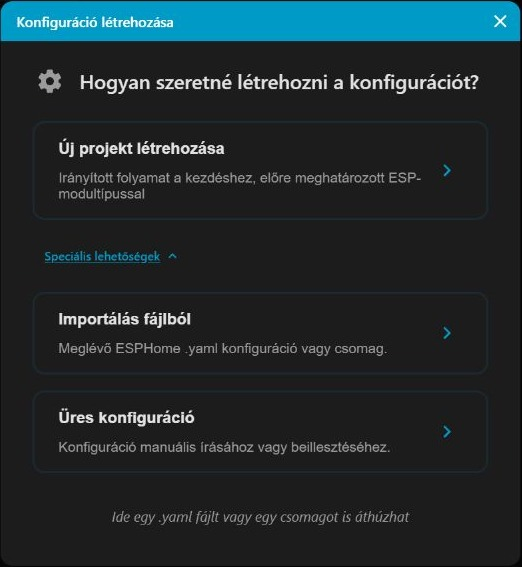
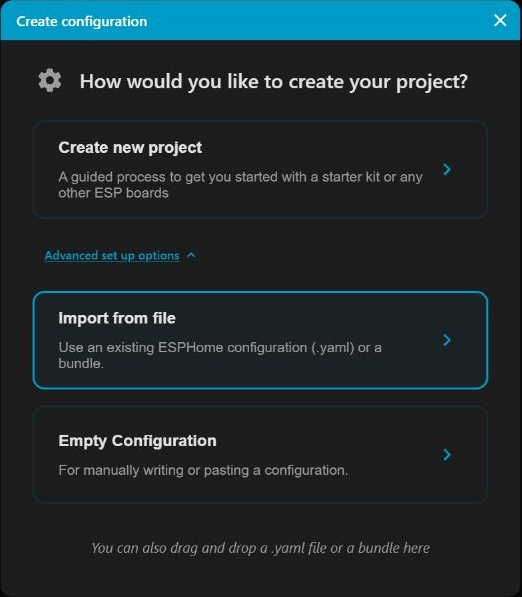
Use English Device Builder screenshots

diff --git a/docs/SOFTWARE.md b/docs/SOFTWARE.md
@@ -22,7 +22,7 @@ If you temporarily provision a friend's device on your own network for testing, 
 
 ## Adopt and secure the device
 
-After connecting the bridge to the owner's Wi-Fi, look for the discovered device in ESPHome Device Builder and choose **Adopt**. The firmware advertises the project's full configuration for import so the owner can edit the imported copy locally. This specific adoption and the first update after adoption have not yet been tested on the new device; a same-configuration OTA update preserved provisioned Wi-Fi during the earlier prototype test.
+After connecting the bridge to the owner's Wi-Fi, look for the discovered device in ESPHome Device Builder and choose **Take control** (adoption). The firmware advertises the project's full configuration for import so the owner can edit the imported copy locally. The first production unit appeared for discovery; adoption and the first update after adoption have not yet been tested, though a same-configuration OTA update preserved provisioned Wi-Fi during the earlier prototype test.
 
 The owner can later add [API encryption](https://esphome.io/components/api/) and an [ESPHome OTA password](https://esphome.io/components/ota/esphome/) in that configuration and install the updated firmware. Keep those secrets private; the Home Assistant integration may need reconfiguration with the new API key when encryption is enabled. These protections do not add a password to the separate captive portal upload path.
 

diff --git a/docs/MANUFACTURING.md b/docs/MANUFACTURING.md
@@ -42,11 +42,11 @@ The setup access point is open, including the captive portal's firmware-upload f
 
 ## 4. Optional Device Builder adoption
 
-Once connected, the device may be offered for **Adopt** in ESPHome Device Builder. The screenshot below is a redacted illustration from the earlier prototype, not proof that a newly built unit has been discovered. This interface was captured in Hungarian; labels vary with language and version.
+Once connected, the device may be offered for **Take control** (adoption) in ESPHome Device Builder. The screenshot below shows the first production unit with its identifying suffix redacted. Labels may vary by version.
 
 ![Redacted example of an ESPHome device offered for adoption](images/esphome-discovery-redacted.jpg)
 
-Automatic Device Builder discovery and adoption have not yet been verified for every network or unit. If the device is not offered, Device Builder also provides manual configuration creation or file import:
+The first production unit was discovered, but the complete adoption and first update have not yet been verified. If the device is not offered, Device Builder also provides manual configuration creation or file import:
 
 ![ESPHome configuration creation dialog showing file import and blank configuration choices](images/esphome-manual-import.jpg)
 
